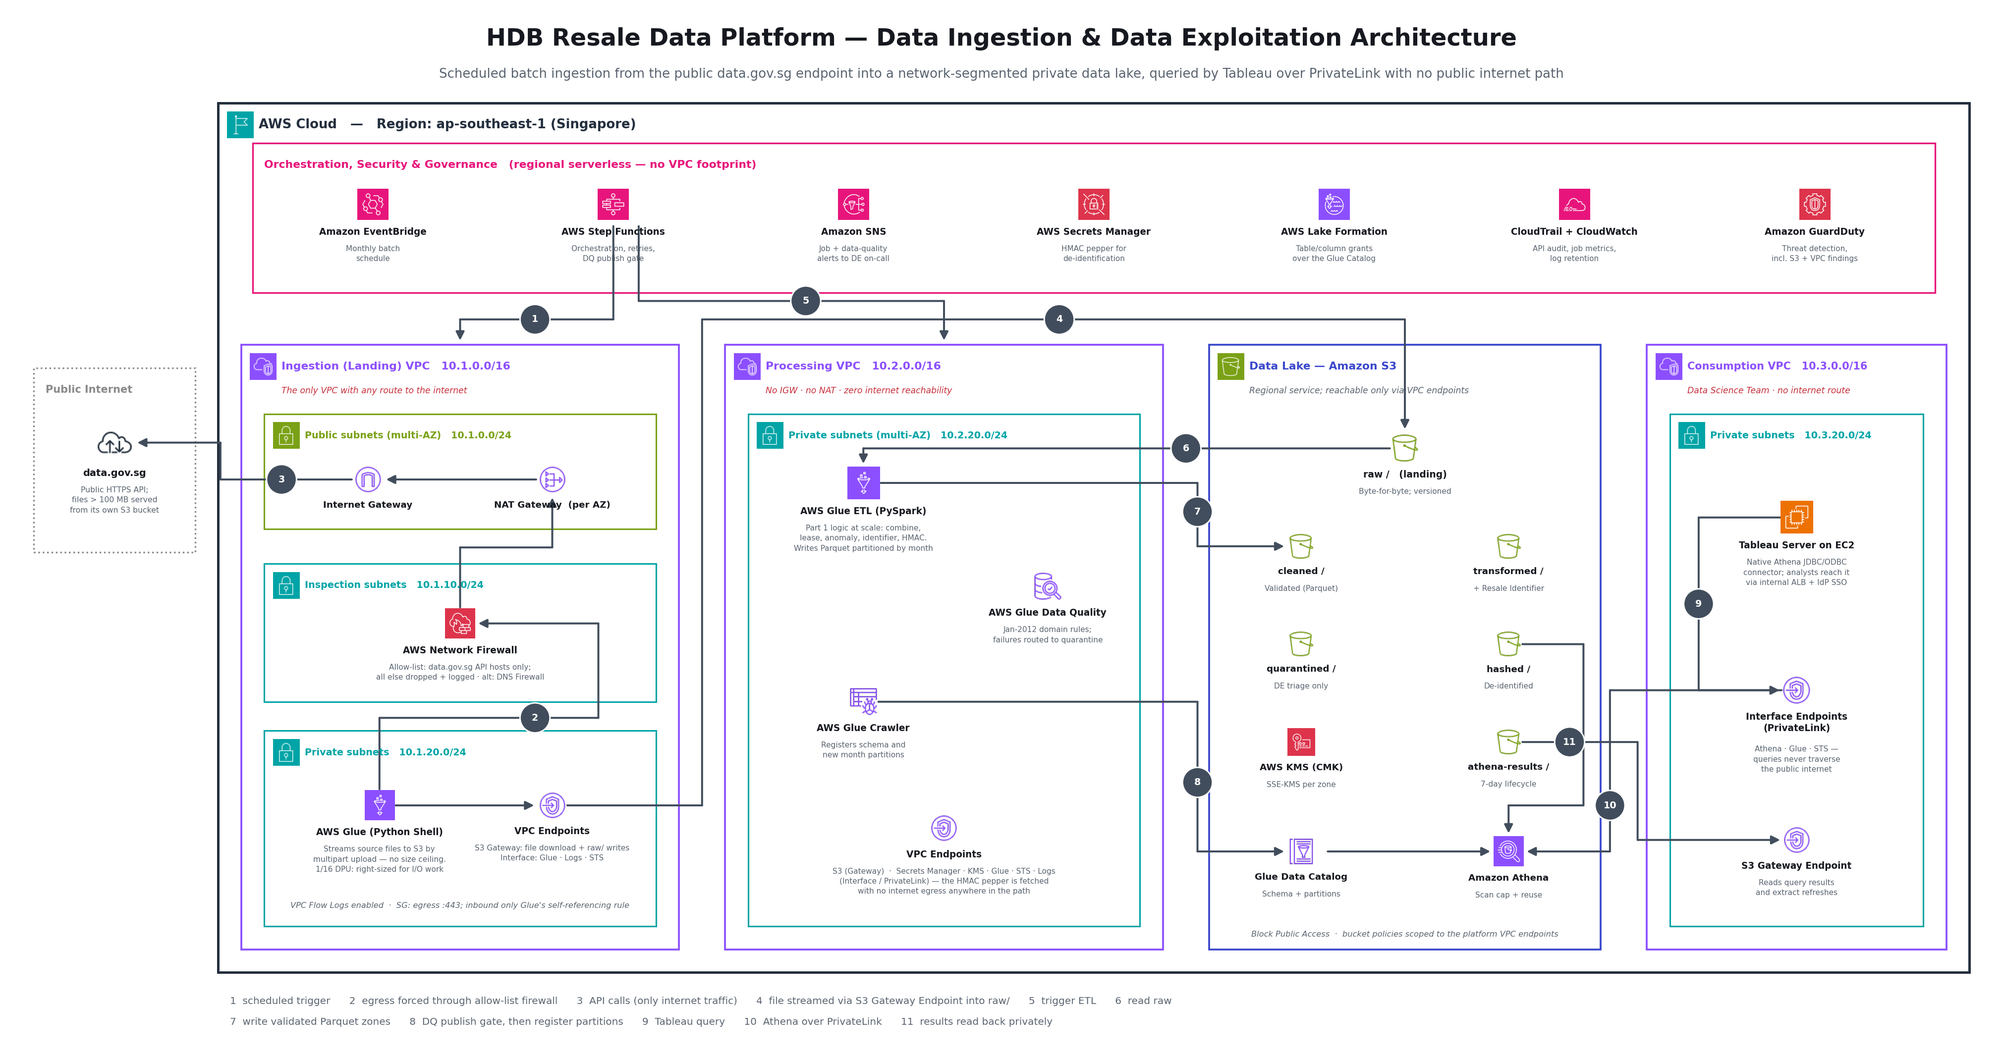
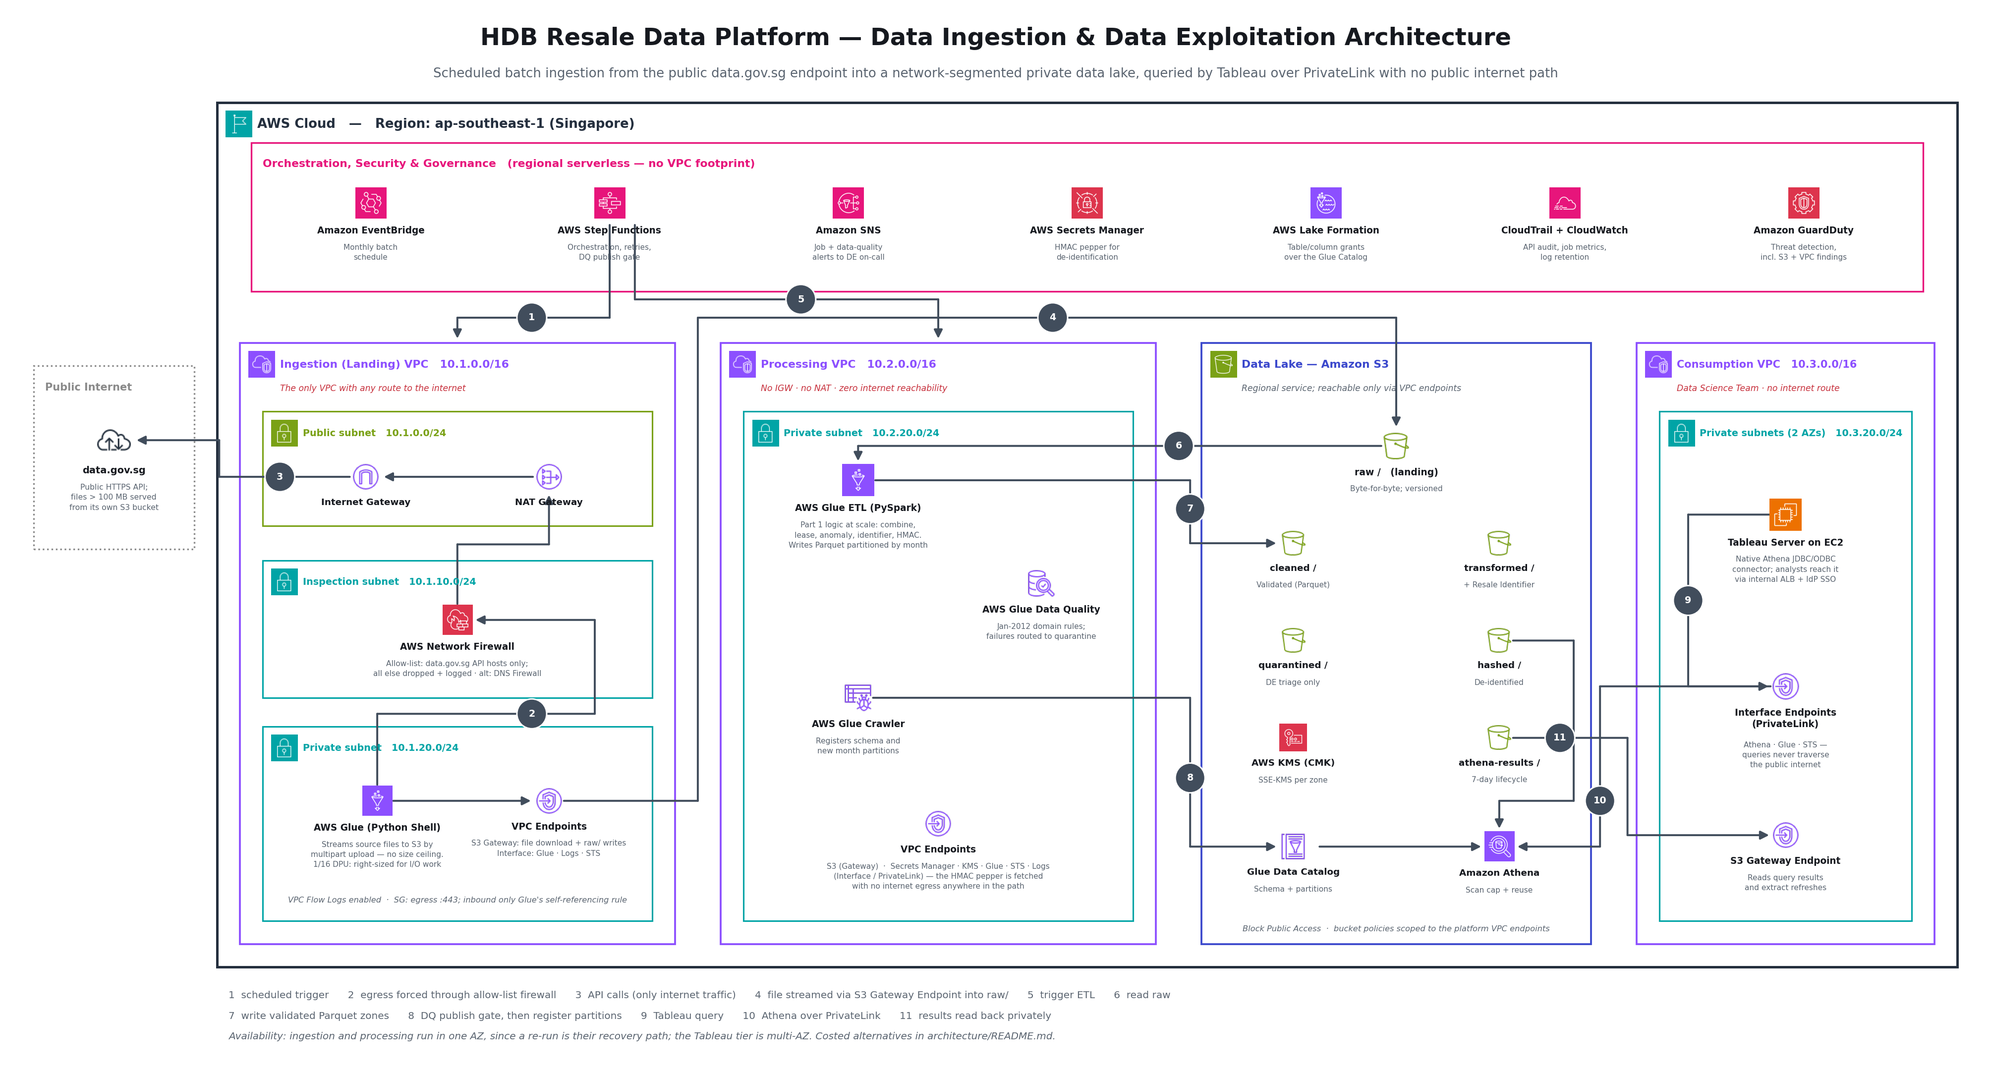
Cap dependency versions, create hashing key on first run, single-AZ batch tiers
- Cap each dependency below its next major version. Unbounded minimums resolved
  to pandas 3 and pytest 9 on Python 3.12, neither of which was tested.
- Generate a local HASH_SECRET_KEY when .env is missing or still holds the
  published placeholder, so the notebook runs without setup and never hashes
  with a public key.
- Run ingestion and processing in a single AZ and only the Tableau tier across
  two; update the diagram and cost section to match.

Verified in clean environments on Python 3.9 and 3.12: tests pass, the notebook
runs end to end, and outputs are byte-identical to the committed ones.

diff --git a/architecture/generate_diagram.py b/architecture/generate_diagram.py
@@ -26,7 +26,7 @@ from aws_icons import (  # noqa: F401 - icon name constants are used throughout 
 OUT_PATH = Path(__file__).resolve().parent / "data_platform_architecture.png"
 
 FIG_W, FIG_H, DPI = 34, 18, 150
-XMIN, XMAX, YMIN, YMAX = 0, 170, -4, 84
+XMIN, XMAX, YMIN, YMAX = 0, 170, -6, 84
 
 # AWS diagram group-border colours, per the AWS architecture icon guidelines.
 C_CLOUD = "#242F3E"
@@ -134,18 +134,18 @@ for i, (icon_name, title, detail) in enumerate(BAND):
 group(19, 3.5, 38, 52.5, "Ingestion (Landing) VPC   10.1.0.0/16", C_VPC, icon=VPC_GROUP,
       sublabel="The only VPC with any route to the internet", sub_color=C_ALERT)
 
-group(21, 40, 34, 10, "Public subnets (multi-AZ)   10.1.0.0/24", C_PUBLIC, icon=PUB_SUBNET,
+group(21, 40, 34, 10, "Public subnet   10.1.0.0/24", C_PUBLIC, icon=PUB_SUBNET,
       lw=1.5, fs=9.2)
 node(IGW, 30, 44.3, "Internet Gateway", size=2.4, ts=8.8)
-node(NAT_GW, 46, 44.3, "NAT Gateway  (per AZ)", size=2.4, ts=8.8)
+node(NAT_GW, 46, 44.3, "NAT Gateway", size=2.4, ts=8.8)
 
-group(21, 25, 34, 12, "Inspection subnets   10.1.10.0/24", C_PRIVATE, icon=PRIV_SUBNET,
+group(21, 25, 34, 12, "Inspection subnet   10.1.10.0/24", C_PRIVATE, icon=PRIV_SUBNET,
       lw=1.5, fs=9.2)
 node(NETFW, 38, 31.8, "AWS Network Firewall",
      "Allow-list: data.gov.sg API hosts only;\nall else dropped + logged · alt: DNS Firewall",
      size=2.6, ts=8.9, ds=7.4)
 
-group(21, 5.5, 34, 17, "Private subnets   10.1.20.0/24", C_PRIVATE, icon=PRIV_SUBNET,
+group(21, 5.5, 34, 17, "Private subnet   10.1.20.0/24", C_PRIVATE, icon=PRIV_SUBNET,
       lw=1.5, fs=9.2)
 node(GLUE, 31, 16, "AWS Glue (Python Shell)",
      "Streams source files to S3 by\nmultipart upload — no size ceiling.\n1/16 DPU: right-sized for I/O work",
@@ -160,7 +160,7 @@ ax.text(38, 7.3, "VPC Flow Logs enabled  ·  SG: egress :443; inbound only Glue'
 group(61, 3.5, 38, 52.5, "Processing VPC   10.2.0.0/16", C_VPC, icon=VPC_GROUP,
       sublabel="No IGW · no NAT · zero internet reachability", sub_color=C_ALERT)
 
-group(63, 5.5, 34, 44.5, "Private subnets (multi-AZ)   10.2.20.0/24", C_PRIVATE,
+group(63, 5.5, 34, 44.5, "Private subnet   10.2.20.0/24", C_PRIVATE,
       icon=PRIV_SUBNET, lw=1.5, fs=9.2)
 node(GLUE, 73, 44, "AWS Glue ETL (PySpark)",
      "Part 1 logic at scale: combine,\nlease, anomaly, identifier, HMAC.\nWrites Parquet partitioned by month",
@@ -193,7 +193,7 @@ ax.text(120, 4.8, "Block Public Access  ·  bucket policies scoped to the platfo
 group(141, 3.5, 26, 52.5, "Consumption VPC   10.3.0.0/16", C_VPC, icon=VPC_GROUP, fs=10.0,
       sublabel="Data Science Team · no internet route", sub_color=C_ALERT)
 
-group(143, 5.5, 22, 44.5, "Private subnets   10.3.20.0/24", C_PRIVATE, icon=PRIV_SUBNET,
+group(143, 5.5, 22, 44.5, "Private subnets (2 AZs)   10.3.20.0/24", C_PRIVATE, icon=PRIV_SUBNET,
       lw=1.5, fs=9.2)
 node(EC2, 154, 41, "Tableau Server on EC2",
      "Native Athena JDBC/ODBC\nconnector; analysts reach it\nvia internal ALB + IdP SSO", size=2.8, ts=8.9, ds=7.4)
@@ -245,6 +245,8 @@ ax.text(18, -2.8,
         "7  write validated Parquet zones      8  DQ publish gate, then register partitions      9  Tableau query      "
         "10  Athena over PrivateLink      11  results read back privately",
         ha="left", va="center", fontsize=9.6, color=C_MUTED)
+ax.text(18, -4.6, "Availability: ingestion and processing run in one AZ, since a re-run is their recovery path; the Tableau tier is multi-AZ. Costed alternatives in architecture/README.md.",
+        ha="left", va="center", fontsize=9.6, color=C_MUTED, style="italic")
 
 ax.set_xlim(XMIN, XMAX)
 ax.set_ylim(YMIN, YMAX)

diff --git a/architecture/generate_drawio.py b/architecture/generate_drawio.py
@@ -168,16 +168,16 @@ n_eventbridge, n_sfn = band_ids[0], band_ids[1]
 g_ingest = group("Ingestion (Landing) VPC   10.1.0.0/16", 330, 410, 540, 990, C_VPC,
                  sublabel="The only VPC with any route to the internet", sub_color=C_ALERT)
 
-group("Public subnets (multi-AZ)   10.1.0.0/24", 360, 480, 480, 185, C_PUBLIC, fontsize=12)
+group("Public subnet   10.1.0.0/24", 360, 480, 480, 185, C_PUBLIC, fontsize=12)
 n_igw = node(IGW, 460, 525, 56, "Internet Gateway", "Egress routing only; no inbound")
-n_nat = node(NAT_GW, 700, 525, 56, "NAT Gateway (per AZ)", "Sole outbound path")
+n_nat = node(NAT_GW, 700, 525, 56, "NAT Gateway", "Sole outbound path")
 
-group("Inspection subnets   10.1.10.0/24", 360, 700, 480, 200, C_PRIVATE, fontsize=12)
+group("Inspection subnet   10.1.10.0/24", 360, 700, 480, 200, C_PRIVATE, fontsize=12)
 n_fw = node(NETFW, 600, 745, 64, "AWS Network Firewall",
             "Allow-list: data.gov.sg API hosts only (api-production, api-open);<br>all else dropped and logged · cost-optimised alt: DNS Firewall (README §4)",
             label_w=420)
 
-group("Private subnets   10.1.20.0/24", 360, 935, 480, 430, C_PRIVATE, fontsize=12)
+group("Private subnet   10.1.20.0/24", 360, 935, 480, 430, C_PRIVATE, fontsize=12)
 n_glue_in = node(GLUE, 470, 985, 64, "AWS Glue (Python Shell)",
                  "Streams source files to S3 by multipart<br>upload — no file-size ceiling.<br>1/16 DPU: right-sized for I/O work")
 n_ep_in = node(VPC_EP, 730, 990, 56, "VPC Endpoints",
@@ -188,7 +188,7 @@ label("VPC Flow Logs enabled  ·  SG: egress :443; inbound only Glue's self-refe
 g_proc = group("Processing VPC   10.2.0.0/16", 910, 410, 540, 990, C_VPC,
                sublabel="No IGW · no NAT · zero internet reachability", sub_color=C_ALERT)
 
-group("Private subnets (multi-AZ)   10.2.20.0/24", 940, 480, 480, 885, C_PRIVATE, fontsize=12)
+group("Private subnet   10.2.20.0/24", 940, 480, 480, 885, C_PRIVATE, fontsize=12)
 n_glue_etl = node(GLUE, 1040, 540, 64, "AWS Glue ETL (PySpark)",
                   "Part 1 logic at scale: combine, lease,<br>anomaly, identifier, HMAC.<br>Writes Parquet partitioned by month")
 n_dq = node(GLUE_DQ, 1300, 745, 60, "AWS Glue Data Quality",
@@ -217,7 +217,7 @@ label("Block Public Access  ·  bucket policies scoped to the platform VPC endpo
 group("Consumption VPC   10.3.0.0/16", 2010, 410, 330, 990, C_VPC,
       sublabel="Data Science Team · no internet route", sub_color=C_ALERT, fontsize=14)
 
-group("Private subnets   10.3.20.0/24", 2040, 480, 270, 885, C_PRIVATE, fontsize=12)
+group("Private subnets (2 AZs)   10.3.20.0/24", 2040, 480, 270, 885, C_PRIVATE, fontsize=12)
 n_tableau = node(EC2, 2175, 540, 64, "Tableau Server on EC2",
                  "Native Athena JDBC/ODBC connector;<br>analysts reach it via internal<br>ALB + IdP SSO", label_w=240)
 n_ep_cons = node(VPC_EP, 2175, 800, 56, "Interface Endpoints (PrivateLink)",
@@ -282,6 +282,7 @@ label("1 scheduled trigger   ·   2 egress forced through allow-list firewall   
 label("7 write validated Parquet zones   ·   8 DQ publish gate, then register partitions   ·   9 Tableau query   ·   "
       "10 Athena over PrivateLink   ·   11 results read back privately",
       1200, 1496, w=1960, h=22, size=12)
+label("Availability: ingestion and processing run in one AZ, since a re-run is their recovery path; the Tableau tier is multi-AZ. Costed alternatives in architecture/README.md.", 1200, 1522, w=1960, h=22, size=12)
 
 # =========================================================================== emit
 body = "\n".join(cells)

diff --git a/tests/test_pipeline.py b/tests/test_pipeline.py
@@ -15,7 +15,7 @@ from src.combine import combine_sources
 from src.completeness import flagged_months, monthly_completeness
 from src.ingest import filename_from_download_url, overlaps_scope, resolve_sources, sha256_of
 from src.schema import SourceDataset
-from src.deidentify import hash_identifier
+from src.deidentify import PLACEHOLDER_KEY, ensure_secret_key, hash_identifier
 from src.identifier import _block_prefix, _month_to_yymm, build_resale_identifier
 from src.lease import add_remaining_lease
 from src.lease_check import parse_published_remaining_lease
@@ -329,3 +329,34 @@ def test_combine_refuses_sources_that_overlap_in_time(tmp_path):
     with pytest.raises(ValueError, match="double-count"):
         combine_sources([a, b], tmp_path, scope_start="2012-01", scope_end="2017-12",
                         authoritative_month="2012-01")
+
+
+# --------------------------------------------------------------------- secret key setup
+def test_missing_key_is_generated_and_saved(tmp_path, monkeypatch):
+    # setenv first so pytest restores the variable afterwards; ensure_secret_key sets it directly.
+    monkeypatch.setenv("HASH_SECRET_KEY", "placeholder-for-restore")
+    monkeypatch.delenv("HASH_SECRET_KEY")
+    env = tmp_path / ".env"
+    assert ensure_secret_key(env) is True
+    saved = env.read_text().strip().split("=", 1)[1]
+    assert len(saved) == 64 and saved != PLACEHOLDER_KEY
+
+
+def test_published_placeholder_key_is_replaced_not_used(tmp_path, monkeypatch):
+    """A key anyone can read from .env.example would defeat the dictionary-attack protection."""
+    # setenv first so pytest restores the variable afterwards; ensure_secret_key sets it directly.
+    monkeypatch.setenv("HASH_SECRET_KEY", "placeholder-for-restore")
+    monkeypatch.delenv("HASH_SECRET_KEY")
+    env = tmp_path / ".env"
+    env.write_text(f"OTHER_SETTING=1\nHASH_SECRET_KEY={PLACEHOLDER_KEY}\n")
+    assert ensure_secret_key(env) is True
+    text = env.read_text()
+    assert PLACEHOLDER_KEY not in text
+    assert "OTHER_SETTING=1" in text and text.count("HASH_SECRET_KEY=") == 1
+
+
+def test_existing_key_is_left_alone(tmp_path, monkeypatch):
+    monkeypatch.setenv("HASH_SECRET_KEY", "an-existing-secret")
+    env = tmp_path / ".env"
+    assert ensure_secret_key(env) is False
+    assert not env.exists()

diff --git a/src/deidentify.py b/src/deidentify.py
@@ -22,18 +22,47 @@ from __future__ import annotations
 import hashlib
 import hmac
 import os
+import secrets
+from pathlib import Path
 
 import pandas as pd
 from dotenv import load_dotenv
 
 load_dotenv()
 
+KEY_NAME = "HASH_SECRET_KEY"
+# The value shipped in .env.example. It is public, so a key equal to it protects nothing.
+PLACEHOLDER_KEY = "change-me-to-a-random-secret"
+
+
+def ensure_secret_key(env_path: Path) -> bool:
+    """Make sure a usable secret key exists, creating a local one if needed.
+
+    Returns True if a new key was generated. A missing key, an empty one, or the published
+    placeholder all count as unusable. The placeholder especially: hashing with a key anyone
+    can read would undo the protection against dictionary attacks.
+    """
+    load_dotenv(env_path)
+    current = os.environ.get(KEY_NAME, "")
+    if current and current != PLACEHOLDER_KEY:
+        return False
+
+    key = secrets.token_hex(32)
+    lines = env_path.read_text().splitlines() if env_path.exists() else []
+    # Replace an existing key line rather than appending a second one; keep any other settings.
+    lines = [line for line in lines if not line.strip().startswith(f"{KEY_NAME}=")]
+    lines.append(f"{KEY_NAME}={key}")
+    env_path.write_text("\n".join(lines) + "\n")
+    os.environ[KEY_NAME] = key
+    return True
+
 
 def _get_secret_key() -> bytes:
-    key = os.environ.get("HASH_SECRET_KEY")
-    if not key:
+    key = os.environ.get(KEY_NAME)
+    if not key or key == PLACEHOLDER_KEY:
         raise RuntimeError(
-            "HASH_SECRET_KEY is not set. Copy .env.example to .env and set a secret value."
+            f"{KEY_NAME} is not set (or is still the .env.example placeholder). "
+            "Call ensure_secret_key() or set a secret value in .env."
         )
     return key.encode("utf-8")
 

diff --git a/architecture/README.md b/architecture/README.md
@@ -53,7 +53,8 @@ The brief calls out the public/private boundary explicitly, so the design treats
 primary structuring principle rather than an afterthought:
 
 **Ingestion (Landing) VPC — `10.1.0.0/16`** — the only tier with internet reachability.
-- *Public subnets*: IGW + NAT Gateway (one per AZ). No workload runs here.
+- *Public subnet*: IGW + NAT Gateway. No workload runs here. Like the rest of the batch
+  tiers, it is single-AZ (see §4 for why).
 - *Inspection subnets*: AWS Network Firewall. All internet-bound traffic from the private
   subnets is routed through it, and the allow-list permits only data.gov.sg's two API hosts:
   `api-production.data.gov.sg` (dataset discovery) and `api-open.data.gov.sg` (downloads). Anything else is dropped and logged, so a compromised job cannot send
@@ -196,46 +197,47 @@ These are the decisions that make the design cheap and fast to run, not just cor
 At this workload (a monthly batch of about 60 MB), the variable costs are negligible —
 Glue, Athena, S3 storage and per-GB processing together come to a few dollars a month. **The
 bill is almost entirely always-on network plumbing**, so that is where cost decisions matter.
-Fixed monthly cost of the design as drawn, from the AWS Price List API for ap-southeast-1
+Fixed monthly cost of the design as drawn — Network Firewall, with ingestion and processing in
+a single AZ and the Tableau tier across two — from the AWS Price List API for ap-southeast-1
 (730 hours/month, list prices at time of writing; check against the AWS Pricing Calculator
 before budgeting):
 
 | Line item | Unit price | Quantity | Monthly |
 |---|---|---|---|
-| AWS Network Firewall endpoint | $0.395 / endpoint-hour | 2 AZs | $577 |
-| NAT Gateway | $0.059 / hour | 2 AZs | $86 |
-| Interface endpoints (PrivateLink) | $0.013 / endpoint-hour per AZ | 11 endpoints × 2 AZs ¹ | $209 |
+| AWS Network Firewall endpoint | $0.395 / endpoint-hour | 1 AZ | $288 |
+| NAT Gateway | $0.059 / hour | 1 AZ | $43 |
+| Interface endpoints (PrivateLink) | $0.013 / endpoint-hour per AZ | 8 batch-tier endpoints × 1 AZ + 3 Tableau-tier endpoints × 2 AZs ¹ | $133 |
 | S3 Gateway Endpoints | free | 3 | $0 |
-| **Total fixed** | | | **$872** (~$10,459/yr) |
+| **Total fixed** | | | **$464** (~$5,571/yr) |
 
 ¹ Ingestion: Glue, Logs, STS · Processing: Secrets Manager, KMS, Glue, STS, Logs · Consumption: Athena, Glue, STS.
 
-Network Firewall alone is about two-thirds of that, to inspect what is a handful of small API
-calls a month. That is out of proportion to the workload, so there are two levers:
+Two decisions drive that figure:
 
-- **Replace Network Firewall with Route 53 Resolver DNS Firewall.** Same allow-list intent
-  (only the two data.gov.sg API hosts resolve), but priced per query — $0.60 per million — so it is
-  effectively free here. The trade-off is real: DNS Firewall controls *name resolution*, while
-  Network Firewall inspects the *connection* (TLS SNI). A process that connects to a hard-coded
-  IP address bypasses DNS Firewall. That gap is partly covered by security-group egress rules
-  plus VPC Flow Logs and GuardDuty alerting on unexpected destinations.
-- **Run only the interactive tier multi-AZ.** Ingestion and processing are a monthly batch: if
-  an AZ fails mid-run, re-running it is the recovery plan, and that is safe because every stage
-  is idempotent. Only Tableau, which serves users, needs to survive an AZ loss.
+- **Only the interactive tier is multi-AZ.** Ingestion and processing are a monthly batch: if an
+  AZ fails mid-run, re-running it is the recovery plan, and that is safe because every stage is
+  idempotent. Only Tableau, which serves users, needs to survive an AZ loss. Running every tier
+  across two AZs would roughly double the network cost for availability the workload doesn't
+  need.
+- **Network Firewall is still most of the bill**, to inspect a handful of small API calls a
+  month. The alternative is **Route 53 Resolver DNS Firewall**: the same allow-list intent (only
+  the two data.gov.sg API hosts resolve), priced per query — $0.60 per million — so effectively
+  free here. The trade-off is real: DNS Firewall controls *name resolution*, while Network
+  Firewall inspects the *connection* (TLS SNI). A process that connects to a hard-coded IP
+  address bypasses DNS Firewall. Security-group egress rules, VPC Flow Logs and GuardDuty
+  alerting on unexpected destinations partly cover that gap.
 
 | Configuration | Egress control | Batch tiers | Fixed / month |
 |---|---|---|---|
-| **A** — as drawn | Network Firewall | 2 AZs | **$872** |
-| **A′** | Network Firewall | 1 AZ | **$464** |
-| **B** | DNS Firewall | 2 AZs | **$295** |
-| **C** | DNS Firewall | 1 AZ | **$176** |
+| All tiers multi-AZ | Network Firewall | 2 AZs | **$872** |
+| **As drawn** | Network Firewall | 1 AZ | **$464** |
+| All tiers multi-AZ | DNS Firewall | 2 AZs | **$295** |
+| Lowest cost | DNS Firewall | 1 AZ | **$176** |
 
-**Recommendation:** decide on security policy, then take the cheaper option within it. The
-diagram shows Network Firewall because a government security baseline often requires egress
-inspection at the connection level. If HDB's baseline requires it, use **A′**: the same
-controls for about half the cost of A. If it doesn't, **C** keeps the same allow-list intent
-for about a fifth of A's cost. A as drawn — multi-AZ everything for a monthly batch — buys
-availability the workload doesn't need.
+**Recommendation:** the diagram uses Network Firewall because a government security baseline
+often requires egress inspection at the connection level. If HDB's baseline doesn't require
+that, switching to DNS Firewall keeps the same allow-list intent and brings the fixed cost down
+to about $176 a month, with nothing else in the design changing.
 
 ---
 
@@ -246,7 +248,7 @@ and a run-level audit trail, rather than a cron'd script that fails silently. St
 idempotent (deterministic overwrite from the same inputs), so a retried run is safe. `raw/` is
 versioned and immutable, so any downstream bug is recoverable by reprocessing rather than
 re-fetching from the source. Glue, Athena and S3 are regional multi-AZ services. The batch
-tiers' network components (NAT, firewall, endpoints) can run in a single AZ, because a re-run is
+tiers' network components (NAT, firewall, endpoints) run in a single AZ, because a re-run is
 their recovery path (see the cost section). Only the consumption tier, Tableau Server, needs
 explicit multi-AZ HA design. The publish gate (§3) is the main data-correctness control: it
 stops a run that reconciles perfectly but is still wrong from ever reaching analysts.
@@ -280,7 +282,7 @@ suffixes become non-deterministic across runs and the hashed output stops being 
   work; Glue was preferred for Data Catalog and bookmark integration.
 - **Egress control: Network Firewall vs. DNS Firewall vs. NAT alone.** NAT alone would satisfy
   "it works" but leaves outbound traffic open to anywhere. Network Firewall inspects each
-  connection and allows only the two data.gov.sg API hosts, but costs ~$577/month across two AZs. DNS
+  connection and allows only the two data.gov.sg API hosts, but costs ~$288/month even in a single AZ. DNS
   Firewall achieves the same allow-list intent for effectively nothing, but can be bypassed by a
   hard-coded IP. Costed comparison and recommendation are in §4. The deciding input is HDB's
   security baseline, not the technology.

diff --git a/README.md b/README.md
@@ -27,14 +27,18 @@ each time the notebook runs).
 
 ## Setup
 
-Requires Python 3.9+.
+Requires Python 3.9–3.12 (tested on 3.9 and 3.12).
 
 ```bash
+python -m venv .venv
+source .venv/bin/activate
 pip install -r requirements.txt
-cp .env.example .env
-# edit .env and set HASH_SECRET_KEY to any random string (used only locally, for the
-# HMAC-based de-identification step — see src/deidentify.py for why a secret key matters)
 ```
+
+No other setup is needed. The de-identification step uses a secret key (`HASH_SECRET_KEY` in
+`.env`). If there isn't one, the notebook generates a random local key on first run. Because
+the key is secret, your hashed identifiers will differ from the committed outputs — that is
+expected. See `src/deidentify.py` for why a secret key, rather than a plain hash, is needed.
 
 ## Running
 
@@ -94,7 +98,7 @@ where a silent error would flow into every output without the row counts ever lo
 │   ├── generate_diagram.py    #   renders the PNG
 │   ├── generate_drawio.py     #   renders the .drawio
 │   └── aws_icons.py           #   downloads/caches the official AWS icon pack
-├── .env.example               # HASH_SECRET_KEY placeholder (.env itself is gitignored)
+├── .env.example               # optional: set your own HASH_SECRET_KEY (.env is gitignored)
 └── requirements.txt
 ```
 
